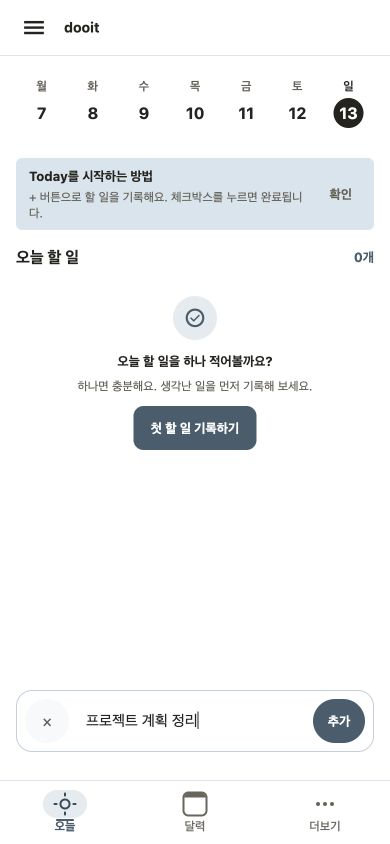
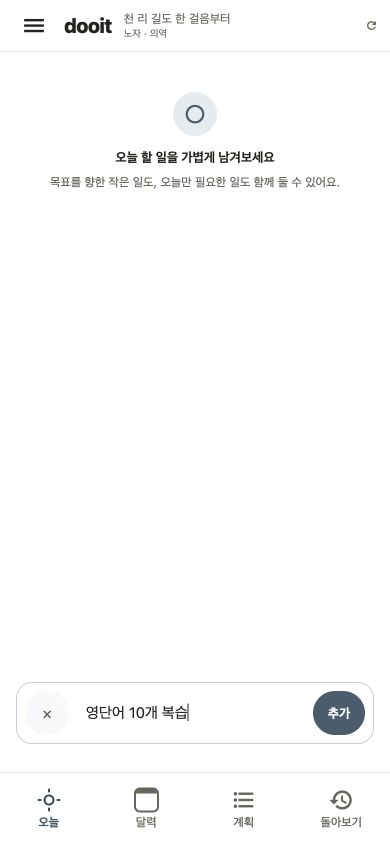
최신 대표 화면 캡처 갱신

diff --git a/docs/screenshots/README.md b/docs/screenshots/README.md
@@ -4,14 +4,16 @@
 
 ## 최신 캡처
 
-- 촬영일: **2026-09-13**
-- 기준 커밋: `c133220`
+- 촬영일: **2026-10-20**
+- 기준 커밋: `34ff4b3` + F2b-1 작업 트리
 - 환경: Expo Web · mock API · Chrome · 390×844 · light theme
 - 시간대: `Asia/Seoul`
-- 캡처 도구: 기존 검증 세션의 Chrome 확장 연결 재사용. 내장 브라우저는 연결 불가로 복구 지침·목록 확인 후 Chrome으로 전환한 상태
+- 캡처 도구: Chrome 확장. 내장 브라우저가 inventory에 없고 직접 연결도 unavailable이어서 전환
 - 상세 상태: [`manifest.json`](./manifest.json)
 
 ## 갱신 규칙
+
+2026-10-20에 14개 화면을 실제 mock Web에서 재촬영하고 저장한 이미지를 직접 확인했다. 오늘은 빈 상태, 빠른 작성은 입력 중, 상세는 새로 만든 기록함 할 일이다. 존재하지 않는 Task 상세 오류 캡처는 실제 생성 항목으로 대체했다. 긴 화면은 첫 viewport만 확인했다. 관찰한 Chrome console error는 없었다. 인증 제출·native 동작·마켓 편집본 갱신은 수행하지 않았다.
 
 - 대표 캡처는 촬영일로부터 **30일째가 되기 전에** 갱신한다. 촬영 후 30일 이상 지나면 UI 변경이 없어도 다시 확인하고 촬영일을 갱신한다.
 - 화면 구조, 하단 탭, 문구, 아이콘, 여백 또는 주요 데이터 상태가 바뀌면 30일을 기다리지 않고 즉시 다시 촬영한다.
